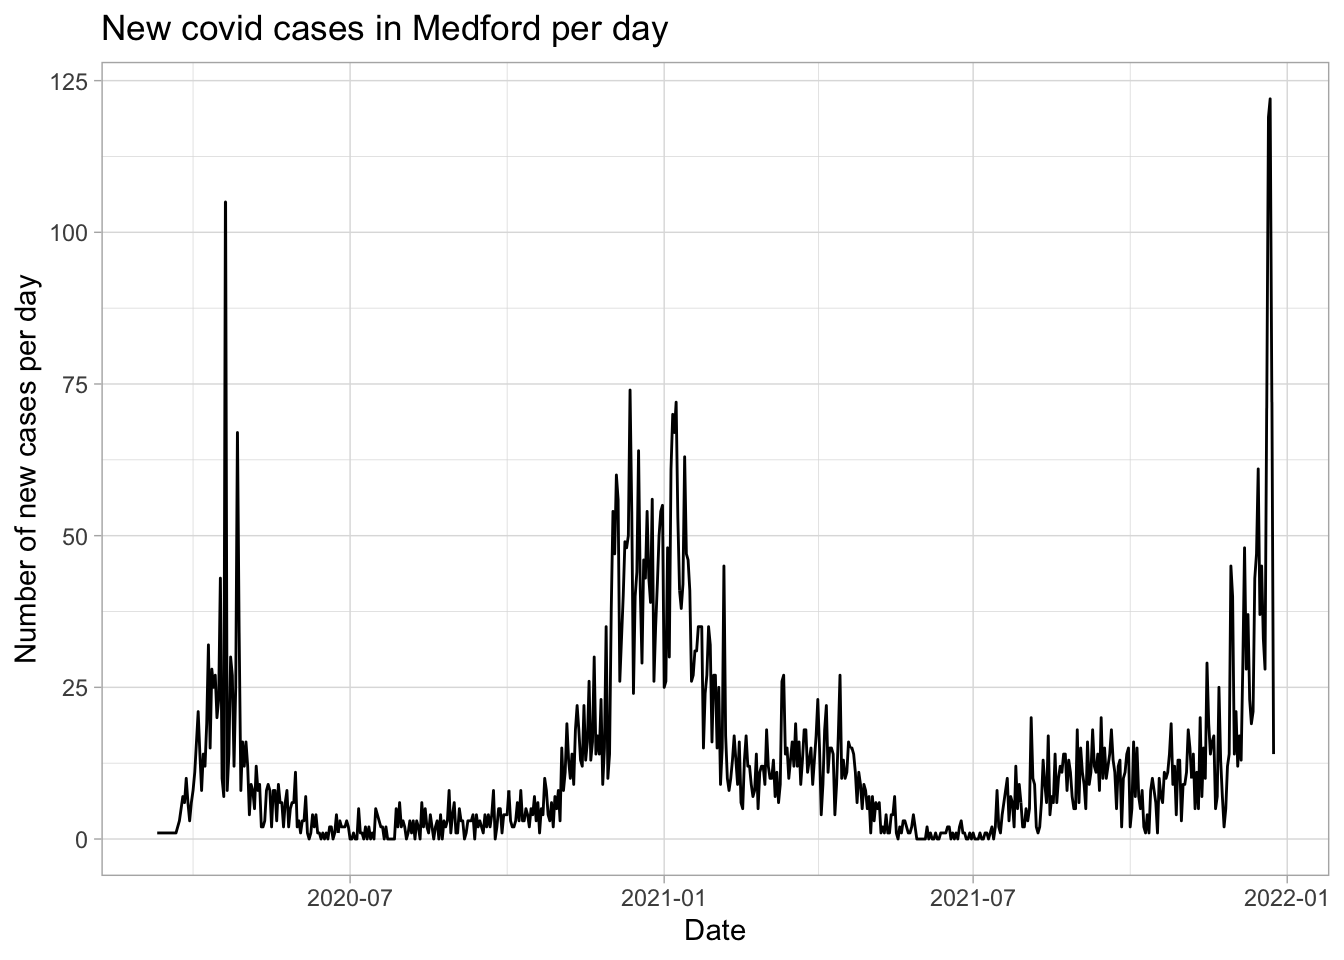
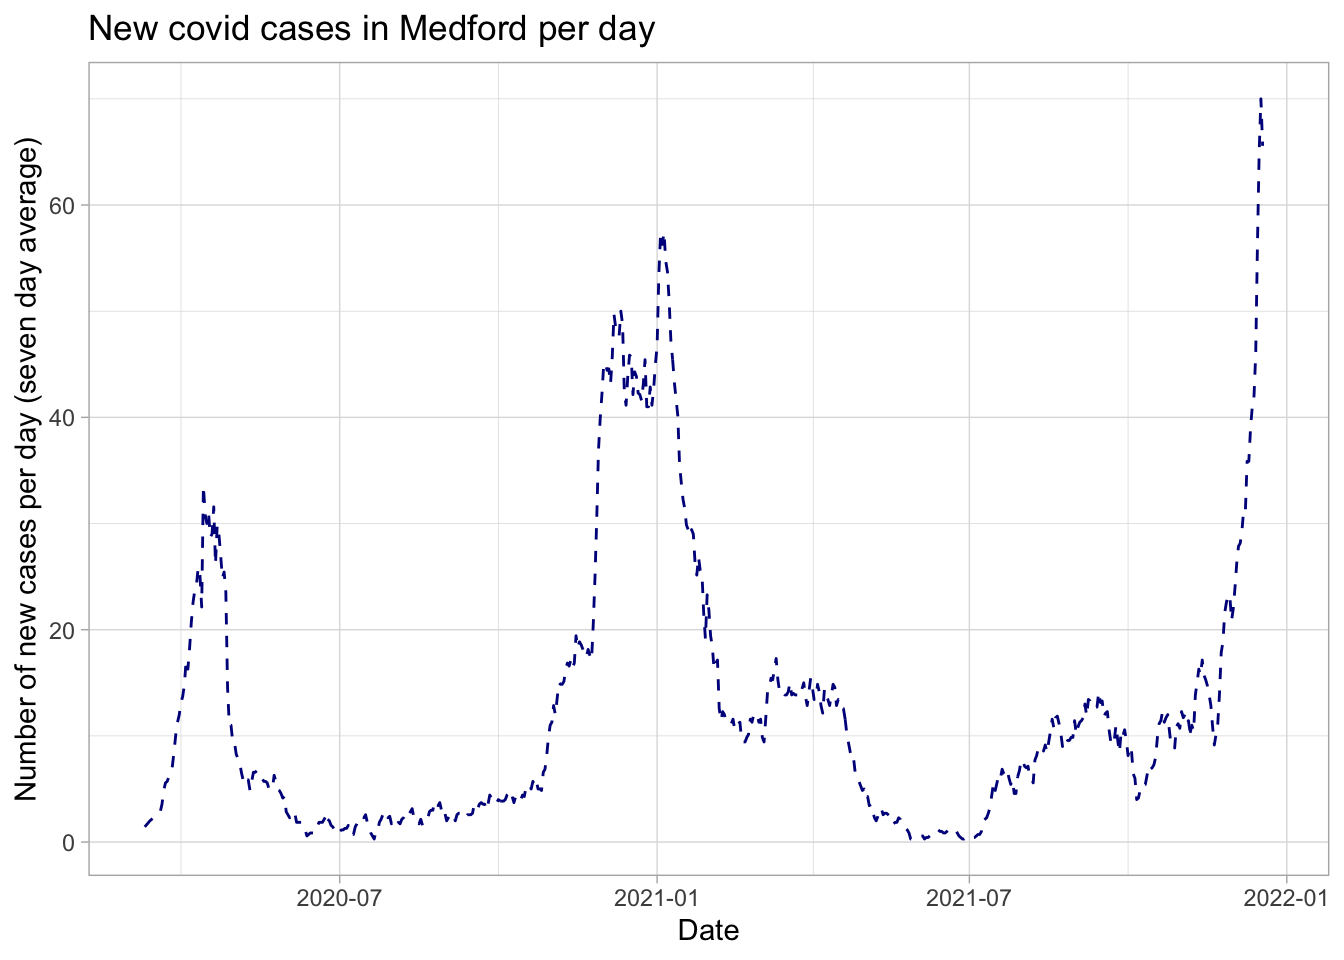
updated data

diff --git a/docs/index.html b/docs/index.html
@@ -283,7 +283,7 @@ $(document).ready(function () {
 <p>Please keep my family, and yours, and yourself safe by following public health guidelines. Find a vaccine at <a href="https://vaxfinder.mass.gov/" class="uri">https://vaxfinder.mass.gov/</a> and go <a href="https://www.medfordma.org/coronavirus-information/">here</a> for info on boosters, masking, and more.</p>
 <p>Positivity rates (what percent of tests show covid; if this is high, it could indicate that many other cases are being missed).</p>
 <p><img src="index_files/figure-html/unnamed-chunk-2-1.png" width="672" /></p>
-<p>New covid cases per day in Medford</p>
+<p>New covid cases per day in Medford, seven day average</p>
 <p><img src="index_files/figure-html/unnamed-chunk-3-1.png" width="672" /></p>
 <div id="hospital-data" class="section level3">
 <h3>Hospital data</h3>
